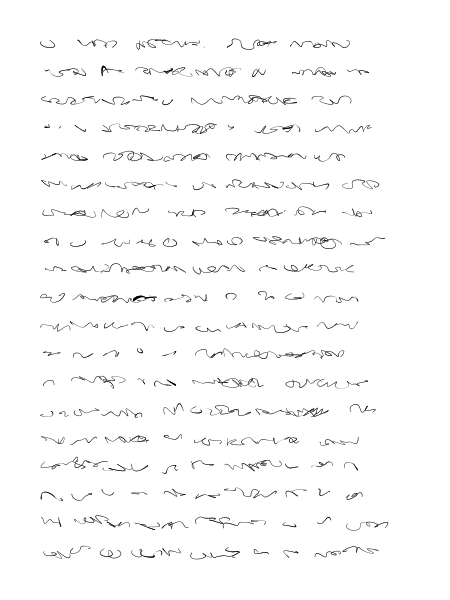
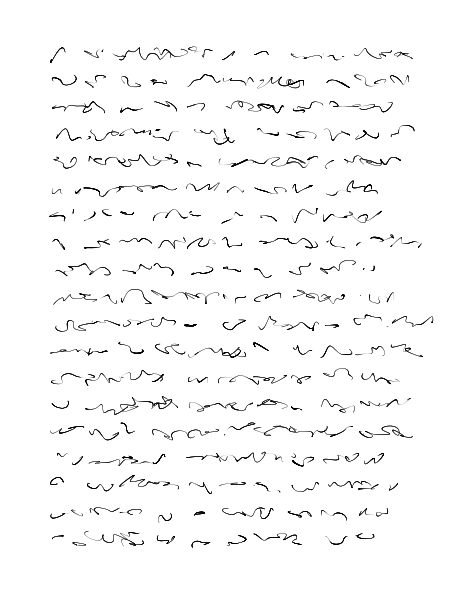
Progressive.

diff --git a/cairo_experiments.py b/cairo_experiments.py
@@ -1,8 +1,9 @@
 #!/usr/bin/env python3
 # -*- coding: utf-8 -*-
 
-import cairo
+from math import floor
 
+import cairo
 from numpy             import linspace
 from numpy.random      import beta
 from numpy.random      import random
@@ -72,7 +73,7 @@ def interp_words(lines, res, limit, ls, h_gap, v_gap):
         while True:
             row.append(interp_points(*lines(k * h_gap(), l * v_gap()), res))
             k += 1
-            if max(row[-1][0]) > limit:
+            if min(row[-1][0]) > limit:
                 break
 
         rows.extend(row)
@@ -81,27 +82,32 @@ def interp_words(lines, res, limit, ls, h_gap, v_gap):
 
 def main():
     seed(1)
-    width  = 450
-    height = 600
-    res    = 50
-    pad    = 40
-    scale  = 8
-    lw     = 1
+    m      = 1
+    width  = floor(m * 475)
+    height = floor(m * 590)
+    pad    = floor(m * 50)
+    res    = 500
+    scale  = 9
+    lw     = 0.9
 
-    char_params = { 'n_pts' : lambda        : poisson(0.3) + 2
-                  , 'w_len' : lambda        : poisson(2) + 2
+    char_params = { 'n_pts' : lambda        : poisson(0.1) + 2
+                  , 'w_len' : lambda        : poisson(1.75) + 2
                   , 'rand_x': lambda n, i, k: ( scale
                                               * (random(n) + i + k)
                                               ) + pad
                   , 'rand_y': lambda n, l   : ( scale
-                                              * (random(n) + l)
+                                              * ( beta(1.5, 1.75, size=n)
+                                                + l
+                                                + beta(1.25, 1.25) - 0.5
+                                                )
+                                              * 0.975
                                               ) + pad
-                  , 'rand_z': lambda n      : lw * uniform(0.3, 0.6, size=n)
+                  , 'rand_z': lambda n      : lw * beta(4, 5, size=n)
                   }
-    line_params = { 'limit': (width * 0.85) - pad
-                  , 'ls'   : 19
-                  , 'h_gap': lambda: uniform(3.75, 3.85)
-                  , 'v_gap': lambda: uniform(3.5, 3.55)
+    line_params = { 'limit': width - (pad * 2.35)
+                  , 'ls'   : floor(m * 19)
+                  , 'h_gap': lambda: uniform(3.75, 3.8)
+                  , 'v_gap': lambda: uniform(3.05, 3.1)
                   }
 
     lines = lines_init(width, height, pad, scale, lw, char_params)
